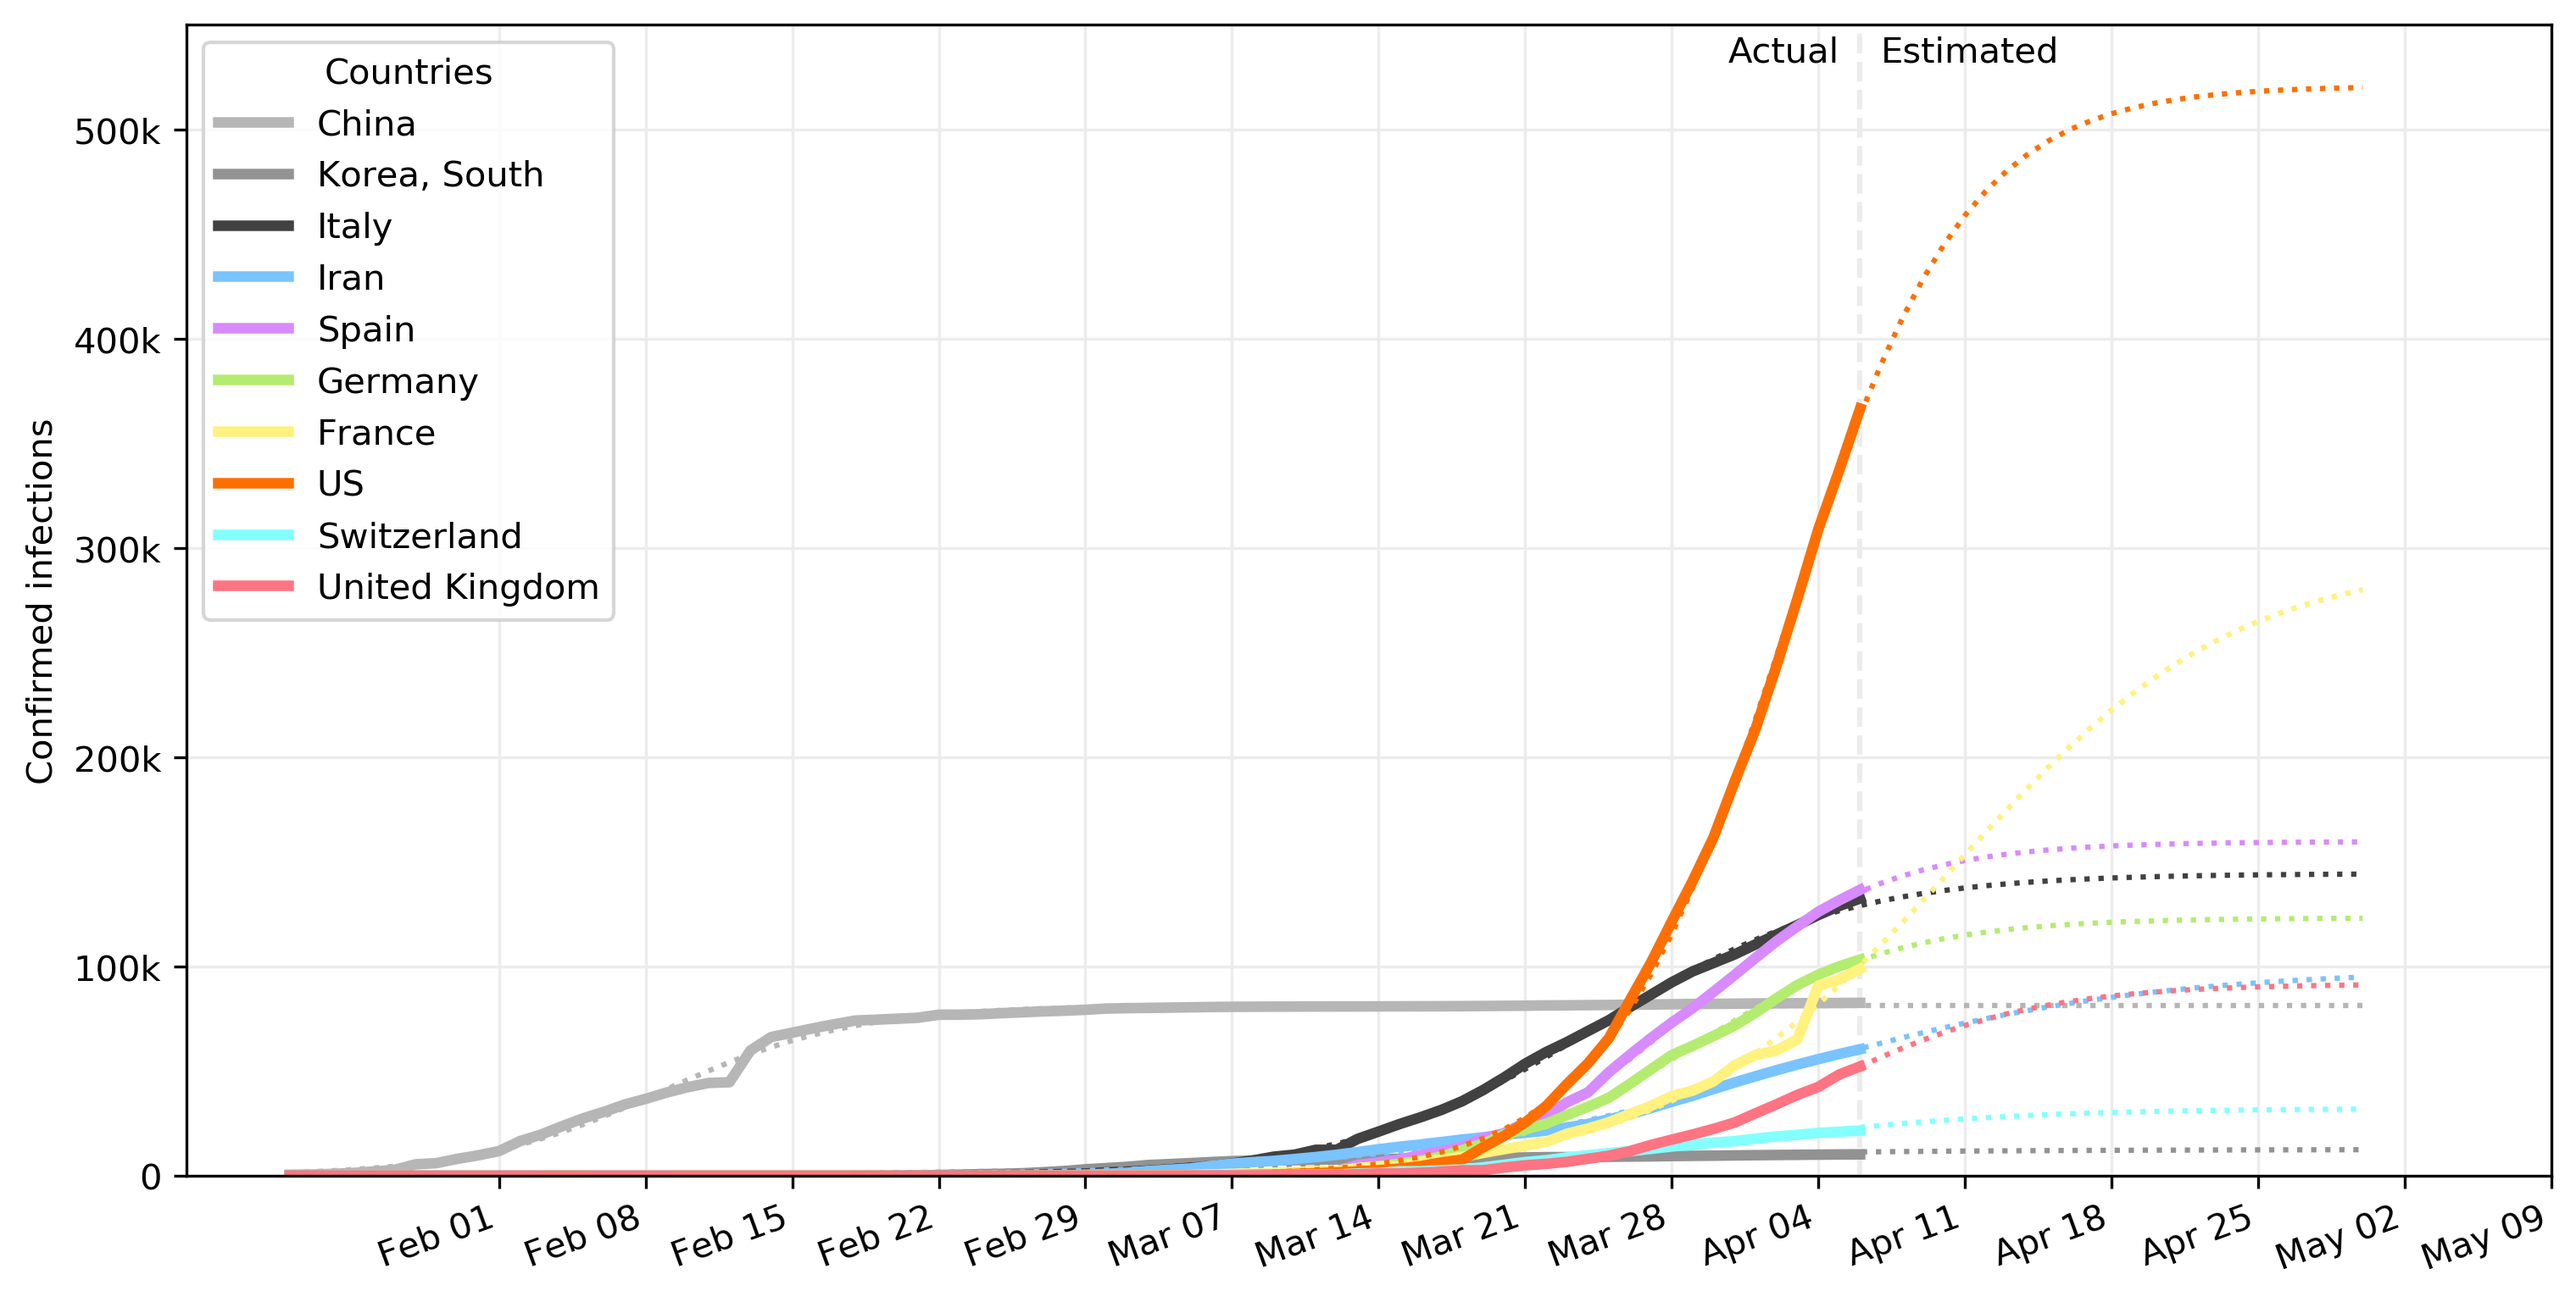
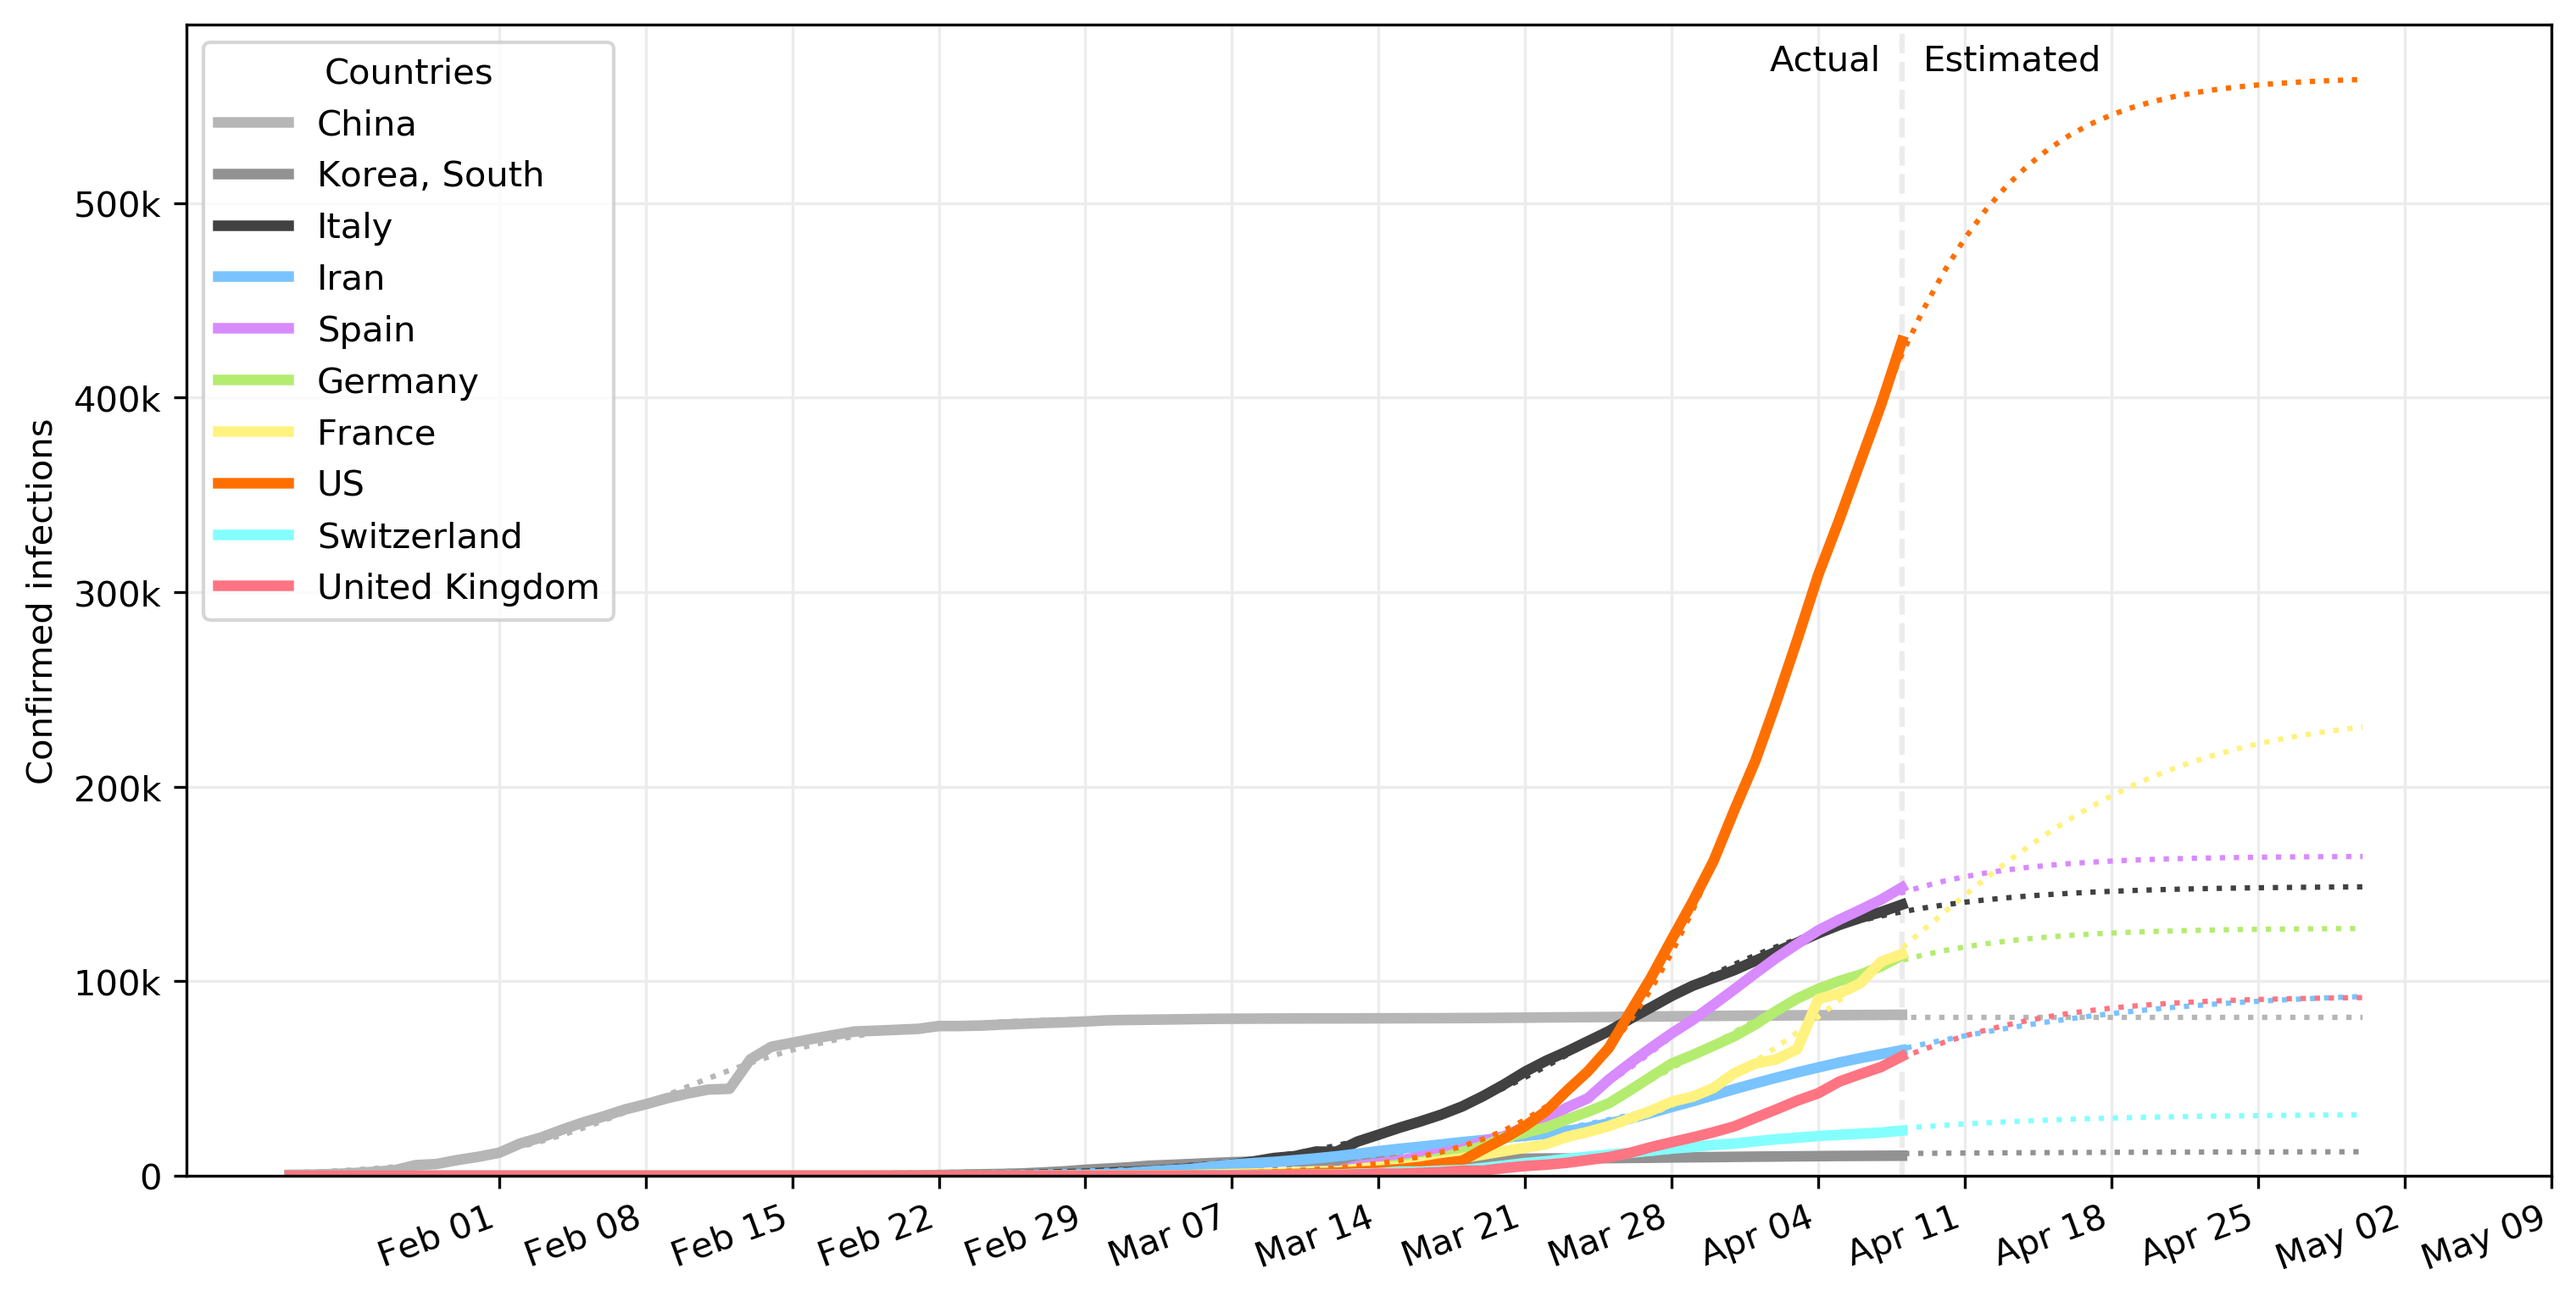
update

diff --git a/plot_trends.py b/plot_trends.py
@@ -198,11 +198,11 @@ for d in dat:
   )
 
 # plots the now line
-y_max = 550000
+_, y_max = ax.get_ylim()
 now = np.datetime64('now').astype('datetime64[D]') - np.timedelta64(1, 'D')
 plt.vlines(now, ymin=0, ymax=y_max, colors=colors['very_light_gray'], linestyles='dashed')
-plt.annotate('Actual', xy=(now - np.timedelta64(1, 'D'), y_max - 5000), ha='right', va='top')
-plt.annotate('Estimated', xy=(now + np.timedelta64(1, 'D'), y_max - 5000), ha='left', va='top')
+plt.annotate('Actual', xy=(now - np.timedelta64(1, 'D'), y_max - 10000), ha='right', va='top')
+plt.annotate('Estimated', xy=(now + np.timedelta64(1, 'D'), y_max - 10000), ha='left', va='top')
 
 ticks = [np.datetime64('2020-02-01') + np.timedelta64(7 * x, 'D') for x in range(0, 15)]
 label_from_tick = lambda tick: pd.to_datetime(tick).strftime('%b %d')
